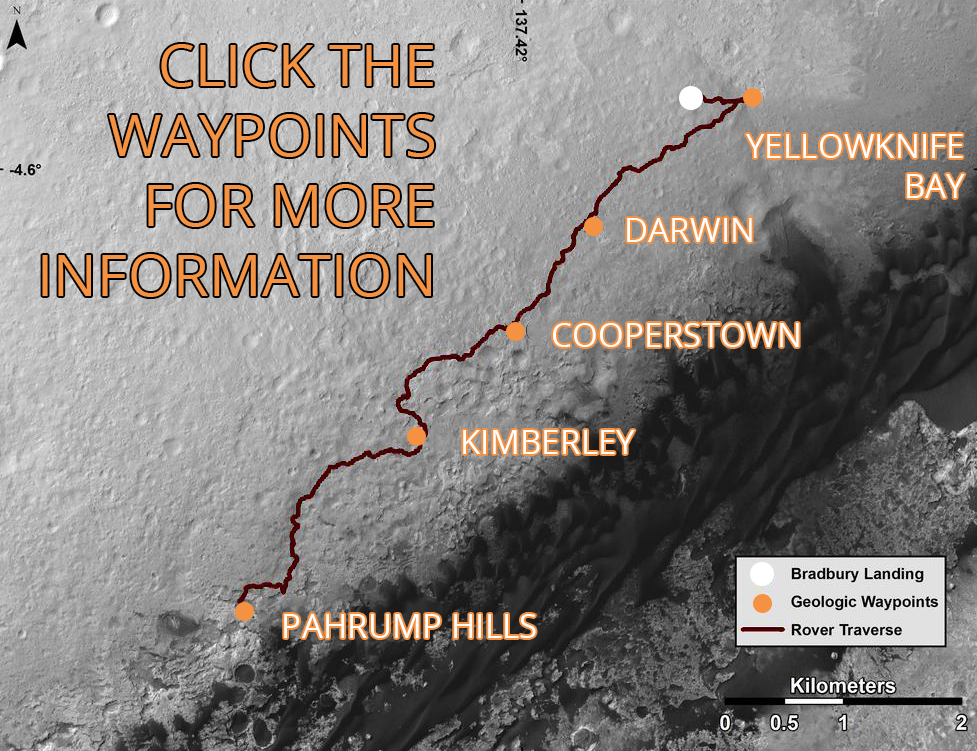
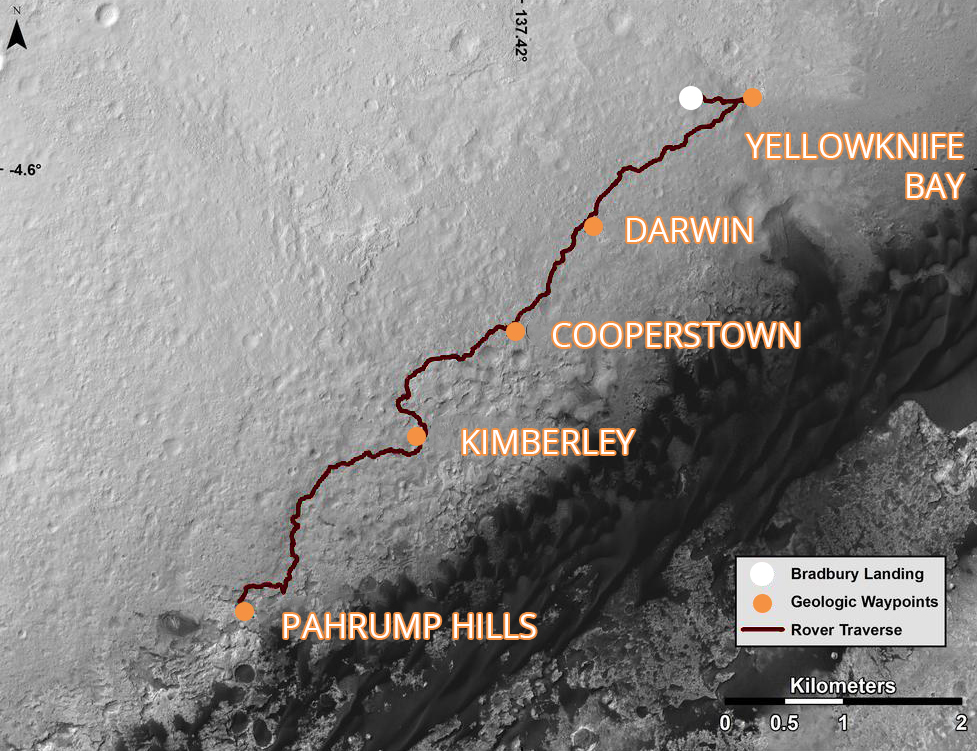
minor changes

diff --git a/school/frontEndWeb/fwd/project1/js/main.js b/school/frontEndWeb/fwd/project1/js/main.js
@@ -110,6 +110,12 @@ rightArrow.onclick = function() {
 }
 
 pahrump.onclick = function() {
+	pahrump.style.backgroundColor = "#c1440e";
+	kimberley.style.backgroundColor = "";
+	cooperstown.style.backgroundColor = "";
+	darwin.style.backgroundColor = "";
+	yellowknife.style.backgroundColor = "";
+	bradbury.style.backgroundColor = "";
 	
 	currentSol = 653;
 	jsonURL = "https://api.nasa.gov/mars-photos/api/v1/rovers/curiosity/photos?sol=653&camera=fhaz&page=1&call_back=?&api_key=vkcnKWOCFI2hf9pEmTYO008v1GjoMFgifWYwqYuR";
@@ -120,6 +126,13 @@ pahrump.onclick = function() {
 }
 
 kimberley.onclick = function() {
+	
+	pahrump.style.backgroundColor = "";
+	kimberley.style.backgroundColor = "#c1440e";
+	cooperstown.style.backgroundColor = "";
+	darwin.style.backgroundColor = "";
+	yellowknife.style.backgroundColor = "";
+	bradbury.style.backgroundColor = "";
 	
 	currentSol = 590;
 	jsonURL = "https://api.nasa.gov/mars-photos/api/v1/rovers/curiosity/photos?sol=590&camera=fhaz&page=1&call_back=?&api_key=vkcnKWOCFI2hf9pEmTYO008v1GjoMFgifWYwqYuR";	
@@ -132,6 +145,13 @@ kimberley.onclick = function() {
 
 cooperstown.onclick = function() {
 	
+	pahrump.style.backgroundColor = "";
+	kimberley.style.backgroundColor = "";
+	cooperstown.style.backgroundColor = "#c1440e";
+	darwin.style.backgroundColor = "";
+	yellowknife.style.backgroundColor = "";
+	bradbury.style.backgroundColor = "";
+	
 	currentSol = 440;
 	jsonURL = "https://api.nasa.gov/mars-photos/api/v1/rovers/curiosity/photos?sol=440&camera=fhaz&page=1&call_back=?&api_key=vkcnKWOCFI2hf9pEmTYO008v1GjoMFgifWYwqYuR";	
 	info = "Curiosity arrived at “Cooperstown”, an outcrop bearing candidate targets for examination with instruments on the rover's arm. Cooperstown is named after Cooperstown Member, a fine-grained sedimentary rock in proximity to the Coeymans Limestone. Some other rock formations in the quad are named Marcellus, Manor Kill, Union Springs and Oneonta.";
@@ -143,6 +163,13 @@ cooperstown.onclick = function() {
 
 darwin.onclick = function() {
 	
+	pahrump.style.backgroundColor = "";
+	kimberley.style.backgroundColor = "";
+	cooperstown.style.backgroundColor = "";
+	darwin.style.backgroundColor = "#c1440e";
+	yellowknife.style.backgroundColor = "";
+	bradbury.style.backgroundColor = "";
+	
 	currentSol = 392;
 	jsonURL = "https://api.nasa.gov/mars-photos/api/v1/rovers/curiosity/photos?sol=392&camera=fhaz&page=1&call_back=?&api_key=vkcnKWOCFI2hf9pEmTYO008v1GjoMFgifWYwqYuR";	
 	info = "Darwin is a crater on Mars located at 57°S 19°E to the southeast of Argyre Planitia in Noachis Terra. It is approximately 176 km in diameter. The crater's name was formally approved by the IAU in 1973. To the northeast of Darwin are the craters Green and Roddenberry.";
@@ -153,6 +180,13 @@ darwin.onclick = function() {
 
 yellowknife.onclick = function() {
 
+	pahrump.style.backgroundColor = "";
+	kimberley.style.backgroundColor = "";
+	cooperstown.style.backgroundColor = "";
+	darwin.style.backgroundColor = "";
+	yellowknife.style.backgroundColor = "#c1440e";
+	bradbury.style.backgroundColor = "";
+
 	currentSol = 121;
 	jsonURL = "https://api.nasa.gov/mars-photos/api/v1/rovers/curiosity/photos?sol=121&camera=fhaz&page=1&call_back=?&api_key=vkcnKWOCFI2hf9pEmTYO008v1GjoMFgifWYwqYuR";	
 	info = "Yellowknife Bay is a geologic formation in Gale Crater on the planet Mars. The site was chosen after much study of the region by previous missions. The Mars Reconnaissance Orbiter observed morphological features created by the presence of liquid water, suggesting the presence of an ancient lake which could have sustained microbial life.";
@@ -162,6 +196,13 @@ yellowknife.onclick = function() {
 }
 
 bradbury.onclick = function() {
+	
+	pahrump.style.backgroundColor = "";
+	kimberley.style.backgroundColor = "";
+	cooperstown.style.backgroundColor = "";
+	darwin.style.backgroundColor = "";
+	yellowknife.style.backgroundColor = "";
+	bradbury.style.backgroundColor = "#c1440e";
 	
 	currentSol = 0
 	jsonURL = "https://api.nasa.gov/mars-photos/api/v1/rovers/curiosity/photos?sol=0&camera=fhaz&page=1&call_back=?&api_key=vkcnKWOCFI2hf9pEmTYO008v1GjoMFgifWYwqYuR";	
@@ -215,16 +256,3 @@ function changeData(e) {
     }
     
 }
-
-function moveLocationDiv() {
-
-	var w = window.outerWidth;
-    var h = window.outerHeight;
-    var txt = "Window size: width=" + w + ", height=" + h;
-    document.getElementById("test").innerHTML = txt;	
-    
-    //pahrump.style.top = -h + "px";
-    //pahrump.style.right = -w + "px";
-}
-
-

diff --git a/school/frontEndWeb/fwd/project1/index.html b/school/frontEndWeb/fwd/project1/index.html
@@ -17,7 +17,7 @@
         <link href="https://fonts.googleapis.com/css?family=Open+Sans:300,400" rel="stylesheet">
         
     </head>
-    <body ontouchstart="" onresize="moveLocationDiv()">
+    <body ontouchstart="">
         <!--[if lt IE 8]>
             <p class="browserupgrade">You are using an <strong>outdated</strong> browser. Please <a href="http://browsehappy.com/">upgrade your browser</a> to improve your experience.</p>
         <![endif]-->
@@ -39,6 +39,8 @@
 				<p>On September 2, 2016 NASA announced its approval for a 2018 launch of Mars InSight mission to study the deep interior or Mars.</p>
 			</div>
 		</div>
+		
+		<div id="click-map"><p>CLICK THE WAY POINTS FOR MORE INFORMATION</p></div>
 		
 		<div id="display-container">
 			<div id="display">

diff --git a/school/frontEndWeb/fwd/project1/css/main.css b/school/frontEndWeb/fwd/project1/css/main.css
@@ -143,6 +143,19 @@ body {
 		padding: 0;
 	}
 	
+	#click-map {
+		padding-top: 3vw;
+		padding-bottom: 3vw;
+		text-align: center;
+		background-color: rgba(244, 146, 66, 1);
+		color: white;
+	}
+	
+	#click-map p {
+		padding: 0;
+		margin: 0;
+	}
+	
 	#display-container {
 		
 		width: 100%;
@@ -186,7 +199,7 @@ body {
 	}
 	
 	#pahrump {
-		top: 57vw;
+		top: 59vw;
 		left: 20vw;
 	}
 	
@@ -203,17 +216,17 @@ body {
 	
 	#darwin {
 		top: 20vw;
-		left: 55vw;
+		left: 57vw;
 	}
 	
 	#yellowknife {
 		top: 6vw;
-		left: 72vw;
+		left: 74vw;
 	}
 	
 	#bradbury {
 		top: 6vw;
-		left: 65vw;
+		left: 67vw;
 		background-color: white;
 
 	}
